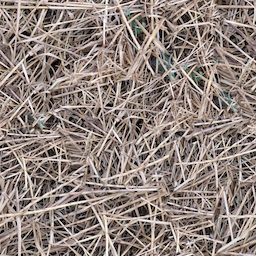
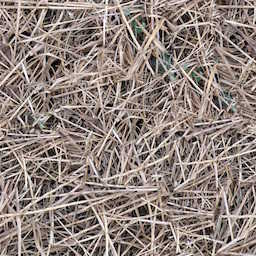
Further compression to textures

diff --git a/index.html b/index.html
@@ -19,9 +19,9 @@
       <a-mixin id="back" rotation="0 0 0" material="src: #texture-stone; repeat: 2 2"></a-mixin>
       <a-mixin id="front" rotation="180 0 0" material="src: #texture-stone; repeat: 2 2"></a-mixin>
       <a-mixin id="move" geometry="primitive: plane; height: 0.7; width: 0.7" material="color: #FFFFFF; opacity: 0.5" rotation="-90 0 0"></a-mixin>
-      <img id="texture-stone" src="stone.jpg?v=2">
-      <img id="texture-straw" src="straw.jpg?v=2">
-      <img id="texture-stone-roof" src="stone_roof.jpg?v=2">
+      <img id="texture-stone" src="stone.jpg?v=3">
+      <img id="texture-straw" src="straw.jpg?v=3">
+      <img id="texture-stone-roof" src="stone_roof.jpg?v=3">
     </a-assets>
     <a-scene>
       <a-entity position="0 1.8 4">
